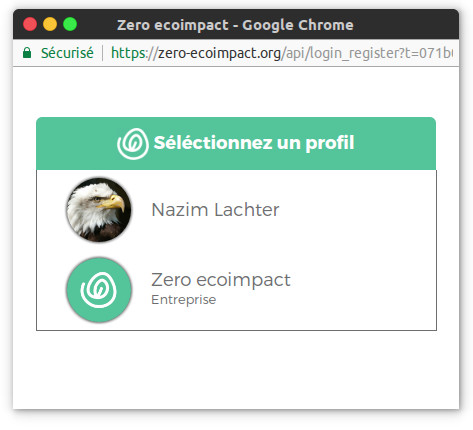
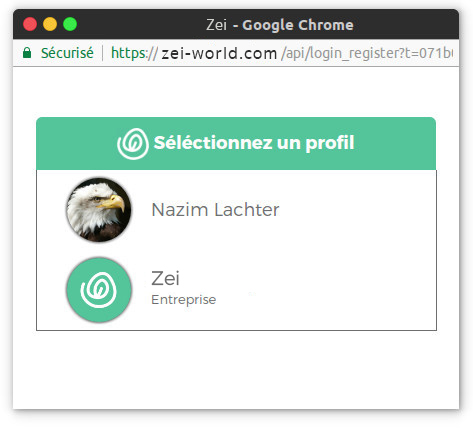
MAJ documentation et screenshots APIv3

Changed region(s): [[0.2368, 0.0302, 0.592, 0.1512], [0.3256, 0.6349, 0.6216, 0.6651]]

diff --git a/PHP/example_offers.php b/PHP/example_offers.php
@@ -10,8 +10,8 @@
 
     <?php
         $profile = $_COOKIE["zei"]; // The current user profile is stored in a cookie named "zei"
-        $offerId = 152; // Offer ID
-        $units = 2; // Number of units
+        $offerId = 42; // Offer ID
+        $units = 4; // Number of units
         if($profile) {
             if(ZEI::validateOffer($offerId, $profile, $units)) {
                 echo "Validation of offer ".$offerId." with ".$units." units successful :)";
